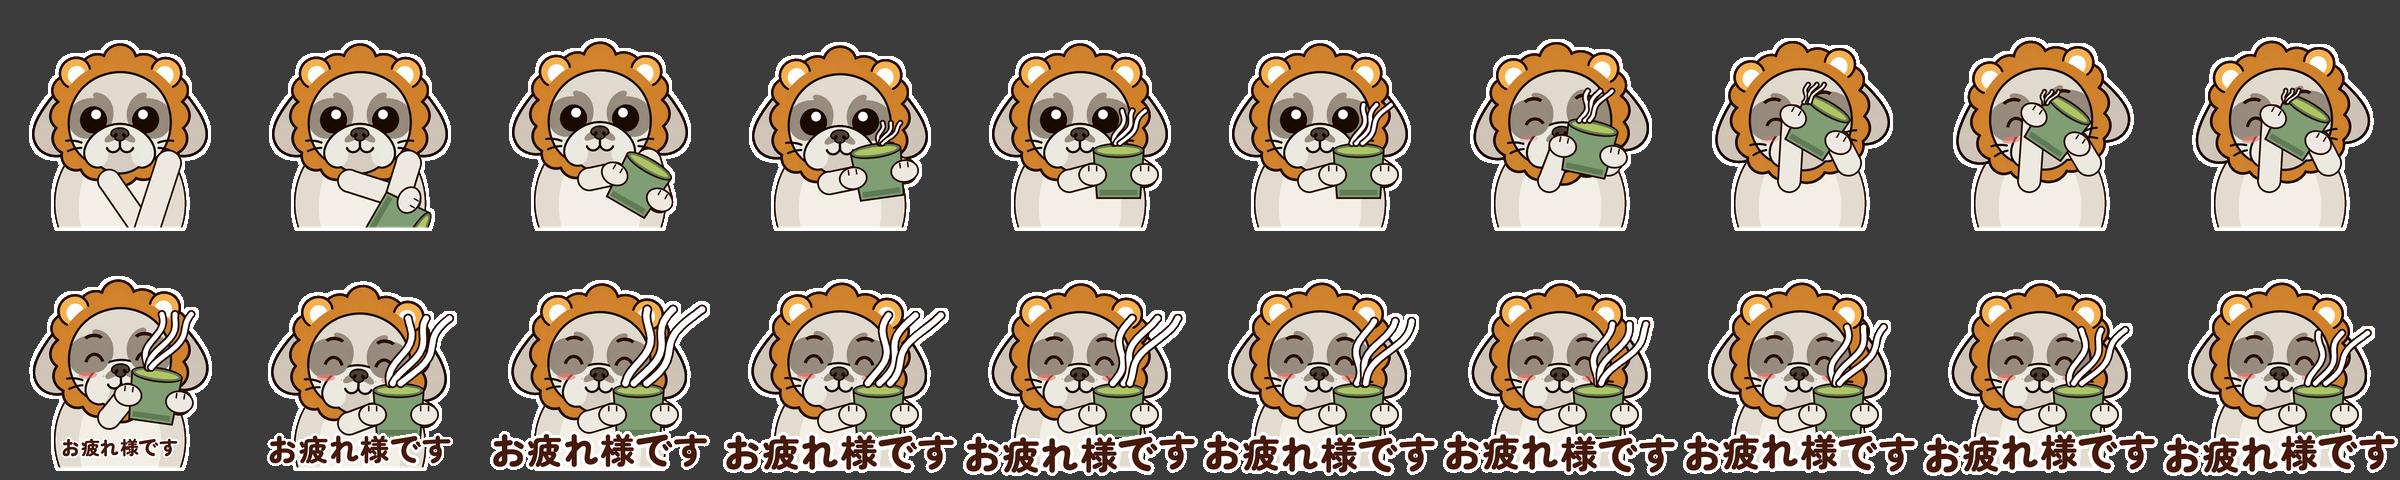
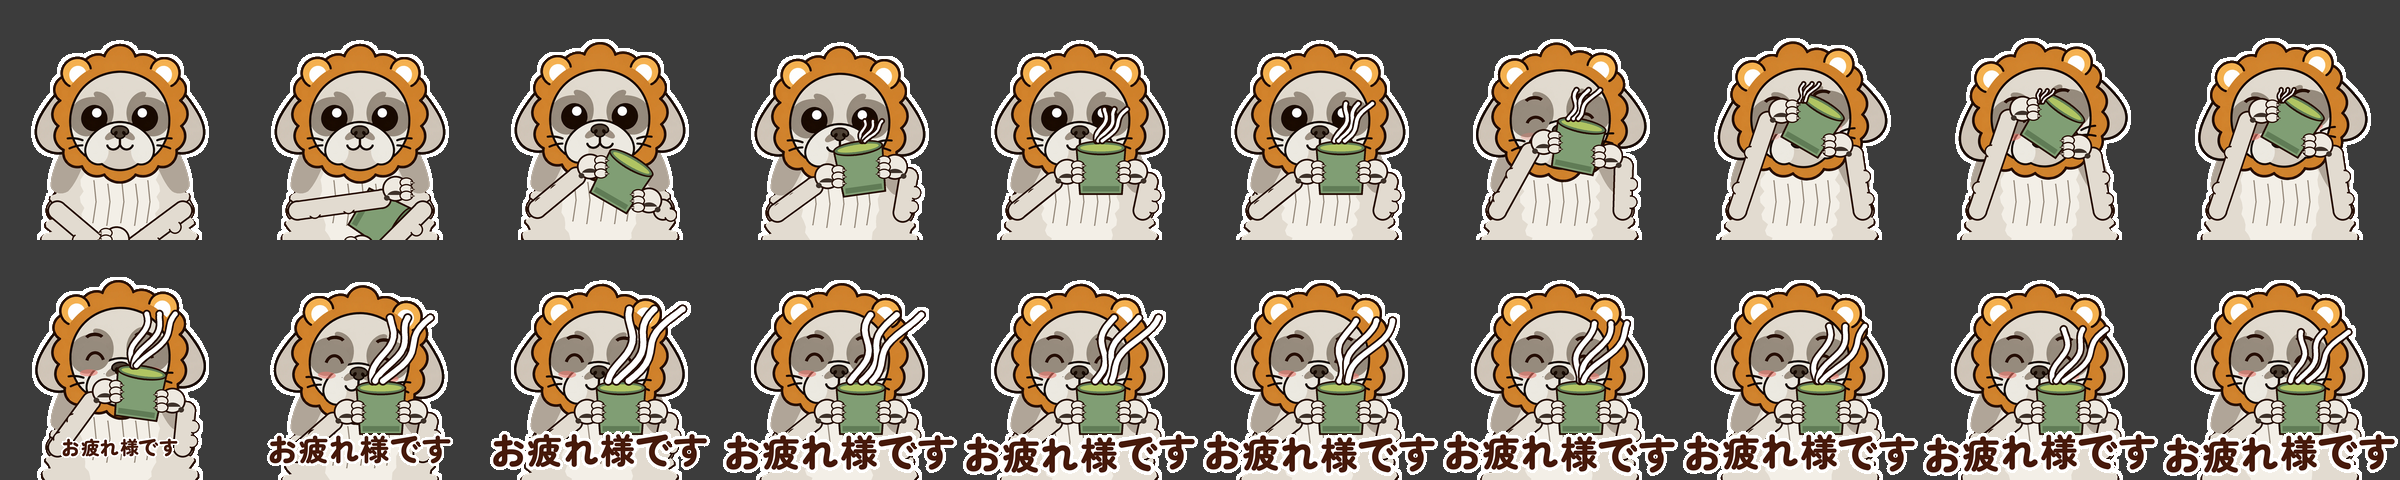
Redraw 'otsukare' with a Shih Tzu coat silhouette and jointed forelegs
Bell-shaped tufted coat, shoulder saddle and bib; forelegs bend at the
elbow and wrist with toes, claws and pads peeking around the cup.

Claude-Session: https://claude.ai/code/session_01KX3WDfyPkAofSs6dqvGAmw

diff --git a/.claude/skills/stamp-create/SKILL.md b/.claude/skills/stamp-create/SKILL.md
@@ -138,6 +138,11 @@ print(ms.verify("assets/gif/名前.gif"))                     # 検証
 - **おすわり・ふせのくり返し（横から）**：腕立ての代わりの、犬らしいトレーニング。おすわり（腰を地面に、前足はまっすぐ、体は斜め上向き）→ 中間 → ふせ（体を低く、前足を前に伸ばす）→ 中間、を3回で12コマ・1.5秒
 - **マッチョのダブルバイセップス（上半身・正面から・約1秒）**：逆三角形の上半身（肩幅720px・腰から下は画面の外）、両腕を曲げて上げ、上腕の上側に力こぶの楕円を盛り上げる。胸板・腹筋・力こぶの境目は細い線で少なめに。頭は1.25倍。腕を上げる2コマ → 力こぶの大きさを 1.05 → 1.2 → 1.08 → 1.22… と2回ぐっと力を込める8コマ。こぶしが左右で切れないよう、写す範囲を広めに取る
 - **場面ごとに文字を重ねる（例「稼ぐぞ！」）**：240pxに仕上げたコマの上に描く（場面ごとに切り抜きの大きさが違っても文字の大きさがそろう）。各場面の最初は小さく（0.45倍）、だんだん大きく（1倍）し、1文字ずつ時間差で弾ませる。**顔に重ねない**：切り抜き範囲を上に2〜3割広げて文字用の余白を作り、文字は上に置く。たてがみのオレンジ色からコマごとに顔の範囲を求め、重なるときだけ「顔の上のすき間 → 下」へ逃がす。文字は半透明の縁を残さない（透明度を0か255にする）。大きさの目安（240px）：筋トレの場面は1文字の高さ54px（最初は0.55倍から）で、上の余白は切り抜きの3〜4割。決めポーズ（マッチョなど）は下に大きく60px・ほぼ一定で、左右の端で切れないか確認する
+- **シーズーの体と前足を描くとき**（「単調」「気持ち悪い」と言われたら）：
+  - 胴体（正面）：首から下へ**つりがね形に広がる長い被毛**。輪郭のふちと裾に毛の束（とがった房）を付け、肩に耳と同じグレーの毛、胸に白い毛（よだれかけ形）と毛の流れの細い線
+  - 前足は犬の関節どおり：肩 → ひじ（体の脇・低い位置で後ろ向きに曲がる）→ 前腕 → 手首 → 足先。**上腕は胸の毛の下に隠し**（体より先に描く）、ひじから先だけ毛の中から出す。前腕は細め、外側にふわっとした飾り毛
+  - 足先：物を持つときは指3本を物の前へ回り込ませ、指先に爪（こげ茶のフチ＋象牙色）、足先の下に大きな肉球、外側の下に小さな手根球をのぞかせる（手根球を前腕の途中に描くと穴に見える）
+  - 実物の写真を見たいときは画像サイトがネットワーク設定で止められていることがある。そのときはユーザーに写真の添付を頼むか、犬の体のつくりの知識で描く
 - **お疲れ様です・湯のみでひと休み（上半身・正面から・20コマ×200ms＝4秒）**：湯のみ（落ち着いた緑・ふちとお茶の色）を両前足で持ち、下からくるっと回りながら出す → 胸の前でピタッ（少し行き過ぎて戻る）→ 口元へ傾けて頭を少し反らす（目が細くなる）→ 「ぷはーっ」と下ろして体が弾み、湯気が大きく渦を巻く → ほっとした顔（^ ^ の笑い目・ほっぺの赤み・元の小さな笑顔の口）で止める。湯のみは右寄りに持ち、湯気は**右上へ流して顔にかけない**。左腕は胸の中央寄りから出して長く横切らせない。文字は後半に下へ、小さい状態からふわっと大きく
 - **すごく速く動く表現**（回数を増やして長さは変えないとき）：1回＝上・下の2コマ×150ms（1回0.3秒）。**汗やスピード線の効果は、ユーザーに頼まれたときだけ入れる**（筋トレスタンプでは「要らない」と言われた）。入れる場合は、動きがいちばん大きい部分（頭か腰）の横に、**体と反対側（外側）だけ**スピード線を3本、動いてきた側へ伸ばして描く（体の上から見えるように、体の後に描く）。汗のしずくをコマごとに位置を変えて飛ばす。前の姿勢を薄い色で重ねる「残像」は、GIFでは半透明にできず白いもやもやの塊になるので使わない。例：筋トレ各5回×3種目＝30コマ・4.5秒
 - GIF は表示時間を 10ms 単位でしか記録できない（125ms は 120ms になる）。合計秒数をきっちり合わせたいときは、130ms と 120ms を交互に並べるなど、10ms 単位の値で組む
